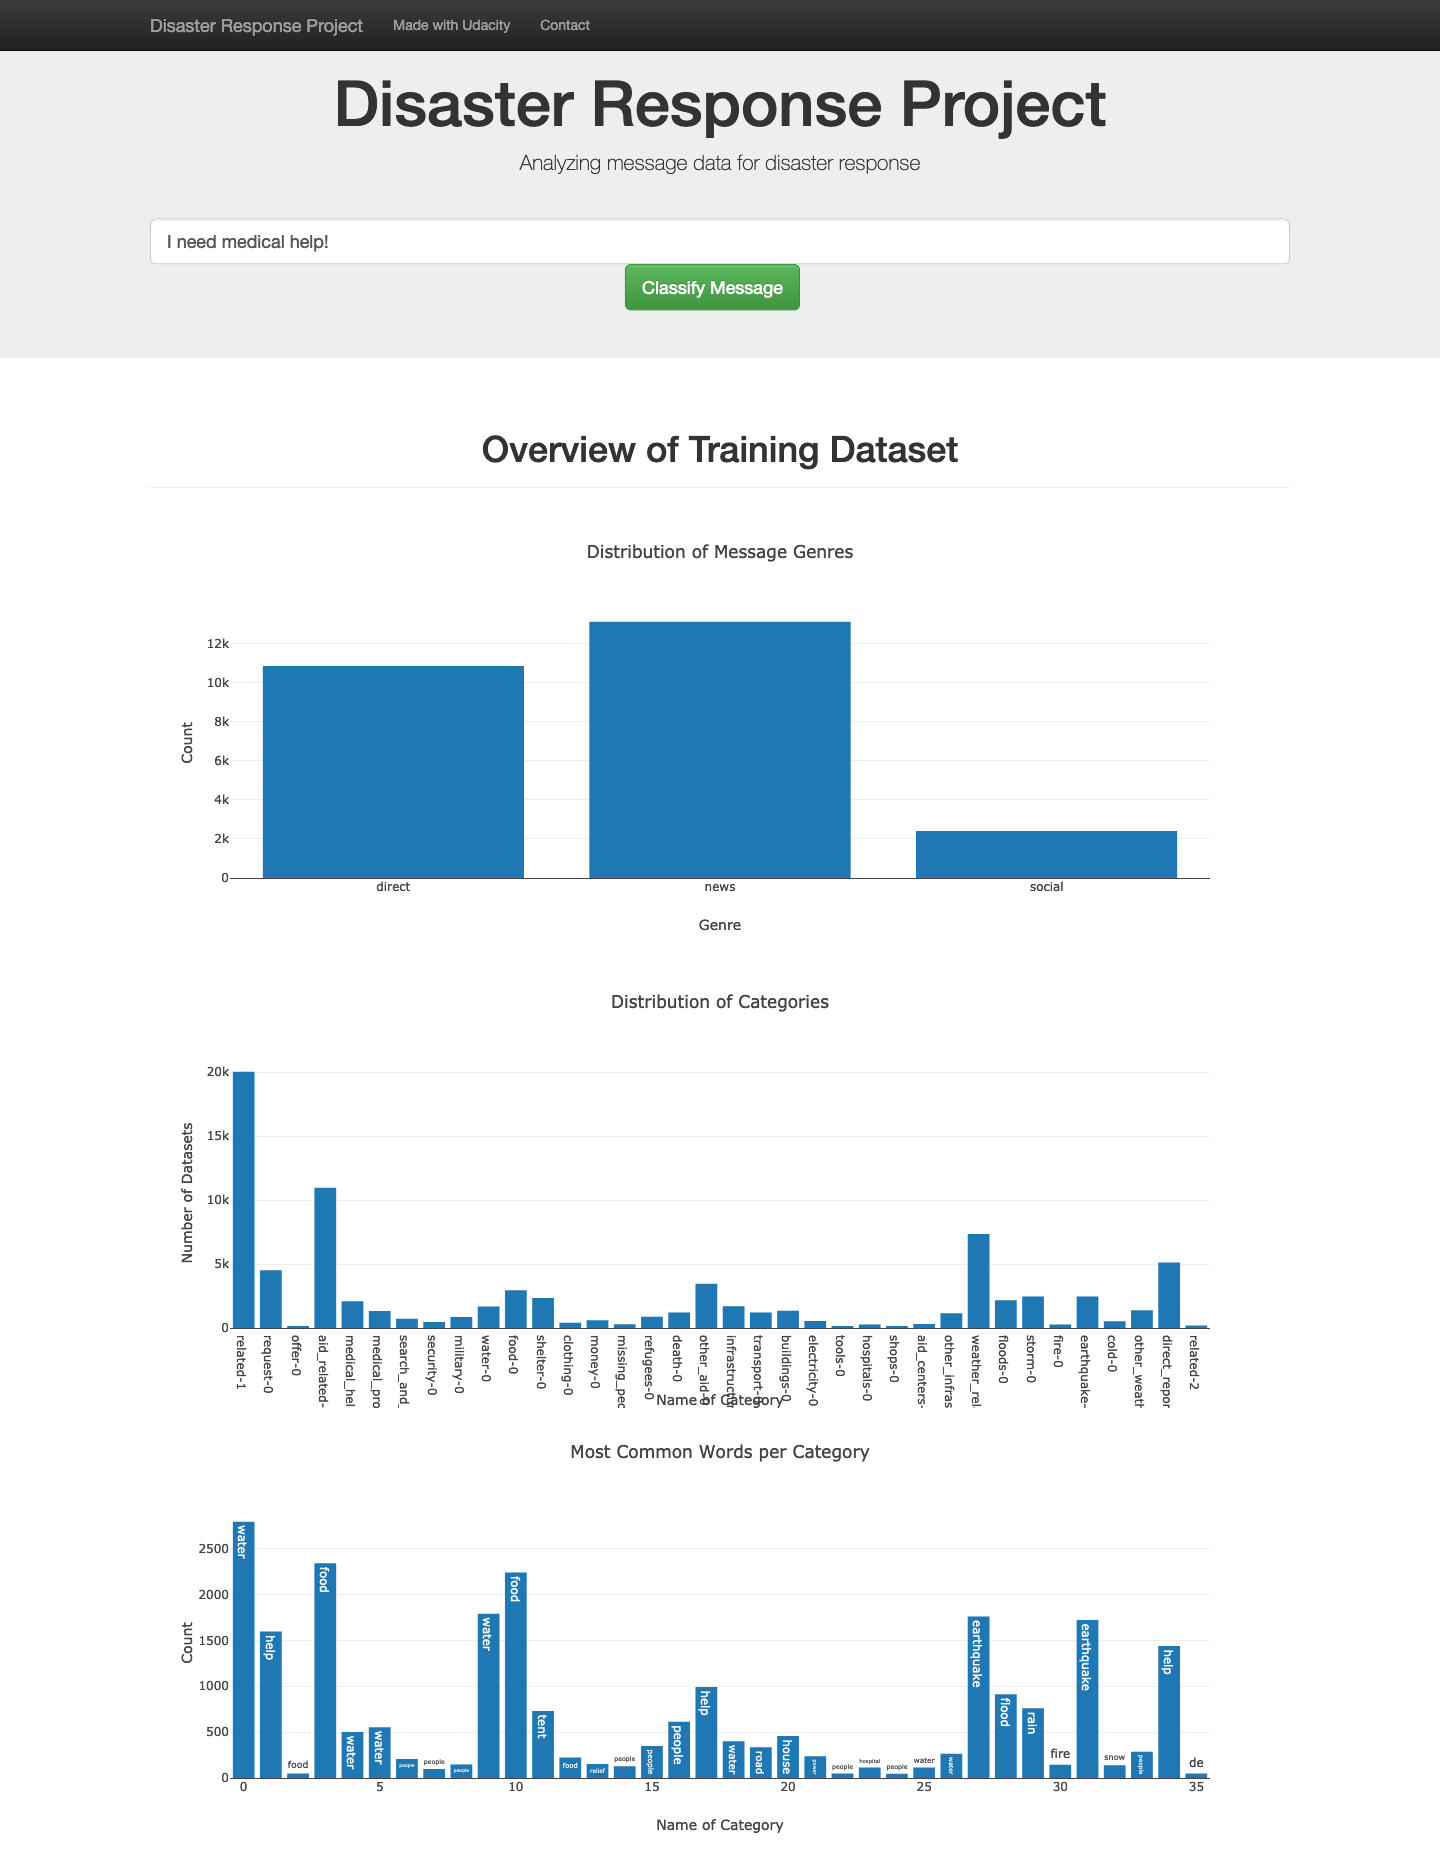
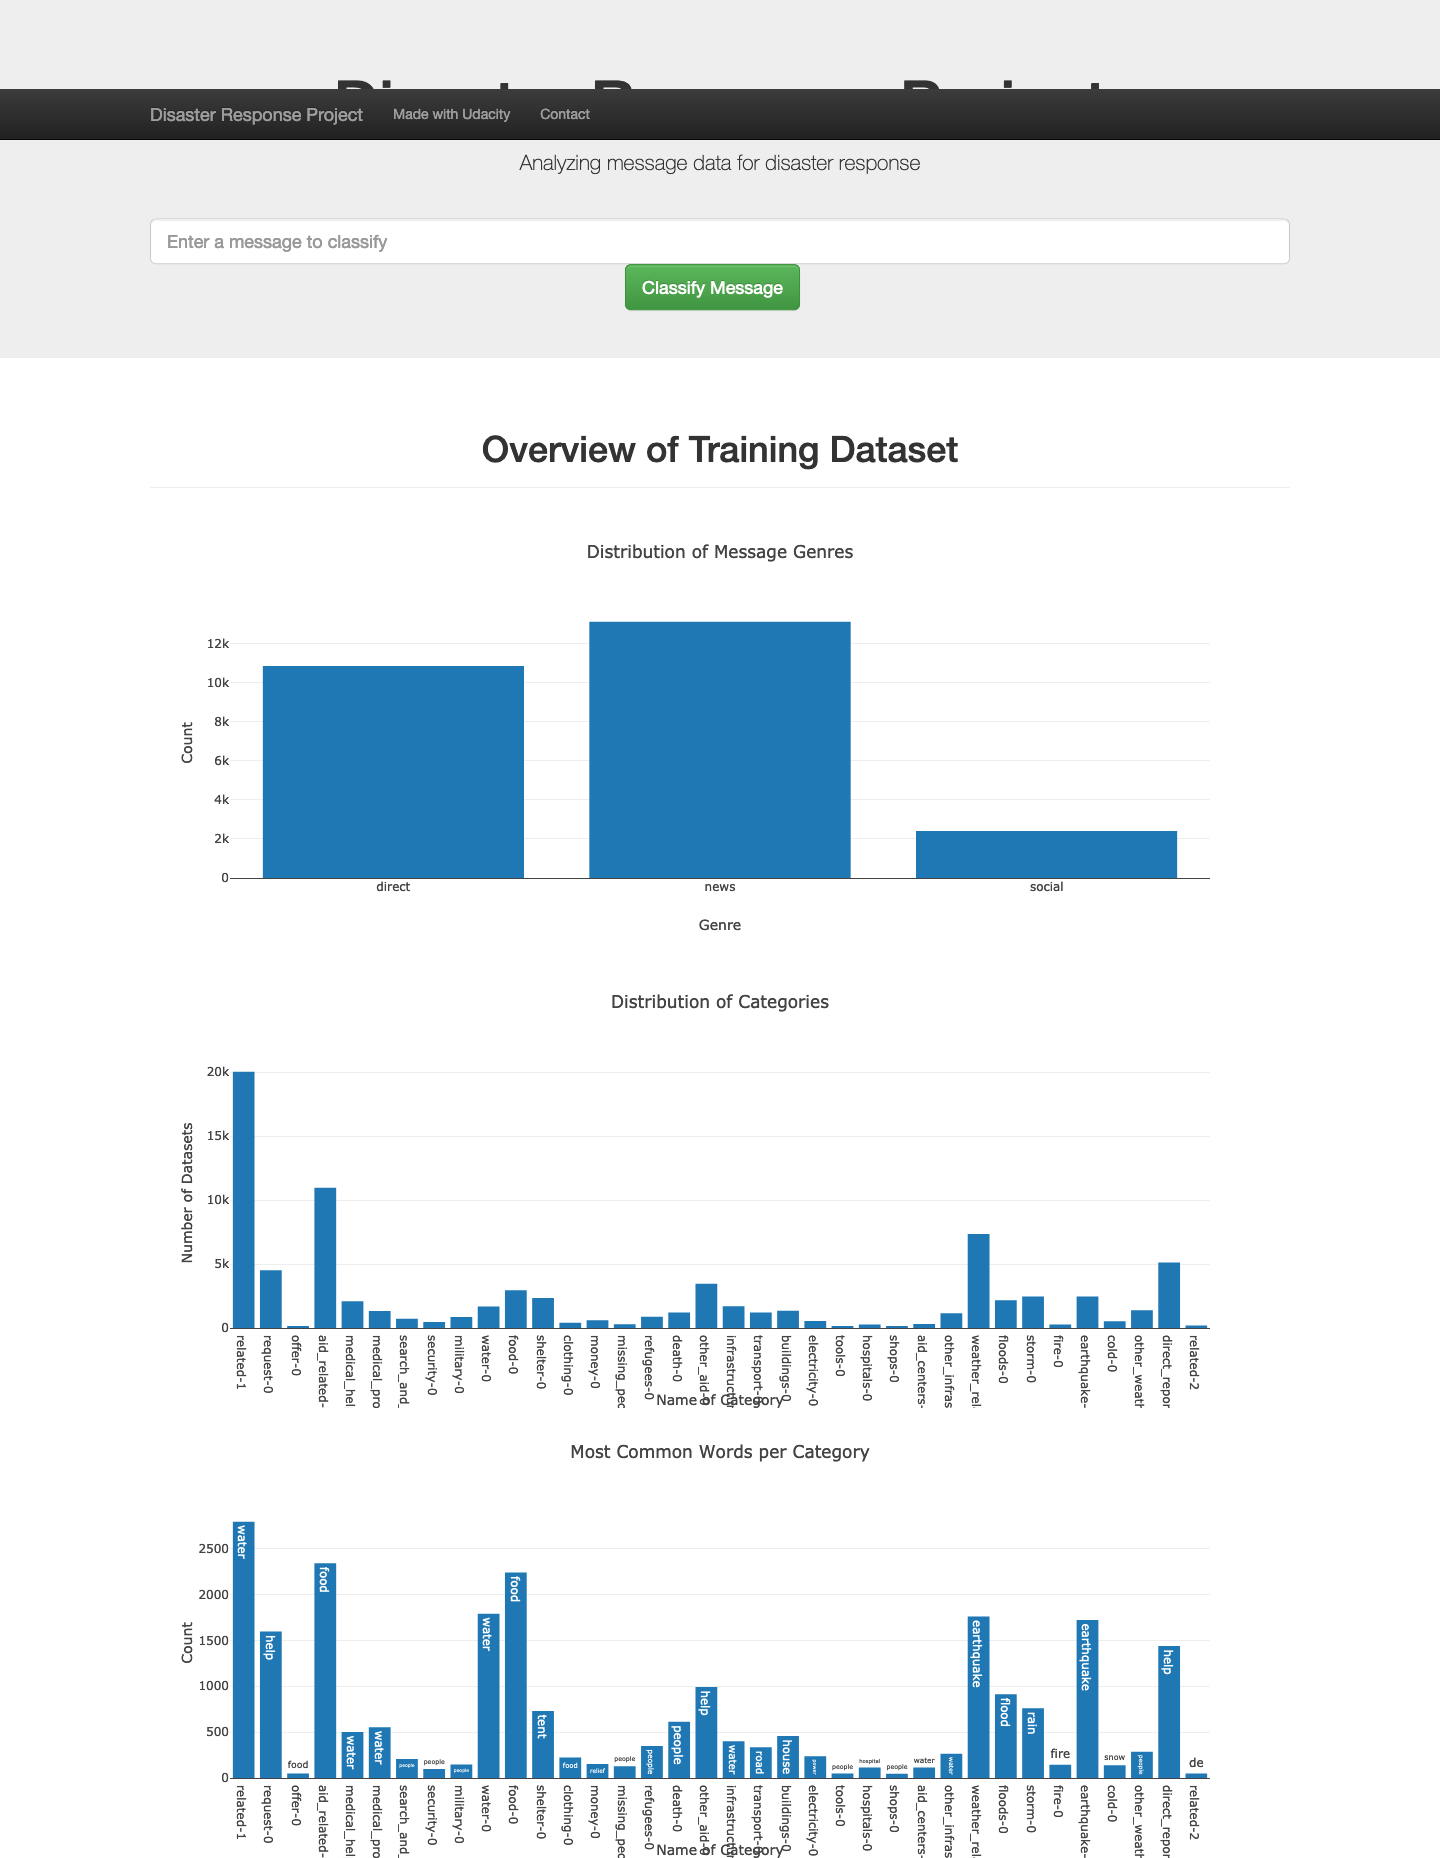
updated axis title of graph in homepage

diff --git a/app/run.py b/app/run.py
@@ -107,7 +107,7 @@ def index():
         {
             'data': [
                 Bar(
-                    x=most_common_dict.index,
+                    x=label_names,
                     y=most_common_dict['count'],
                     text=most_common_dict['word'],
                     textposition='auto',
